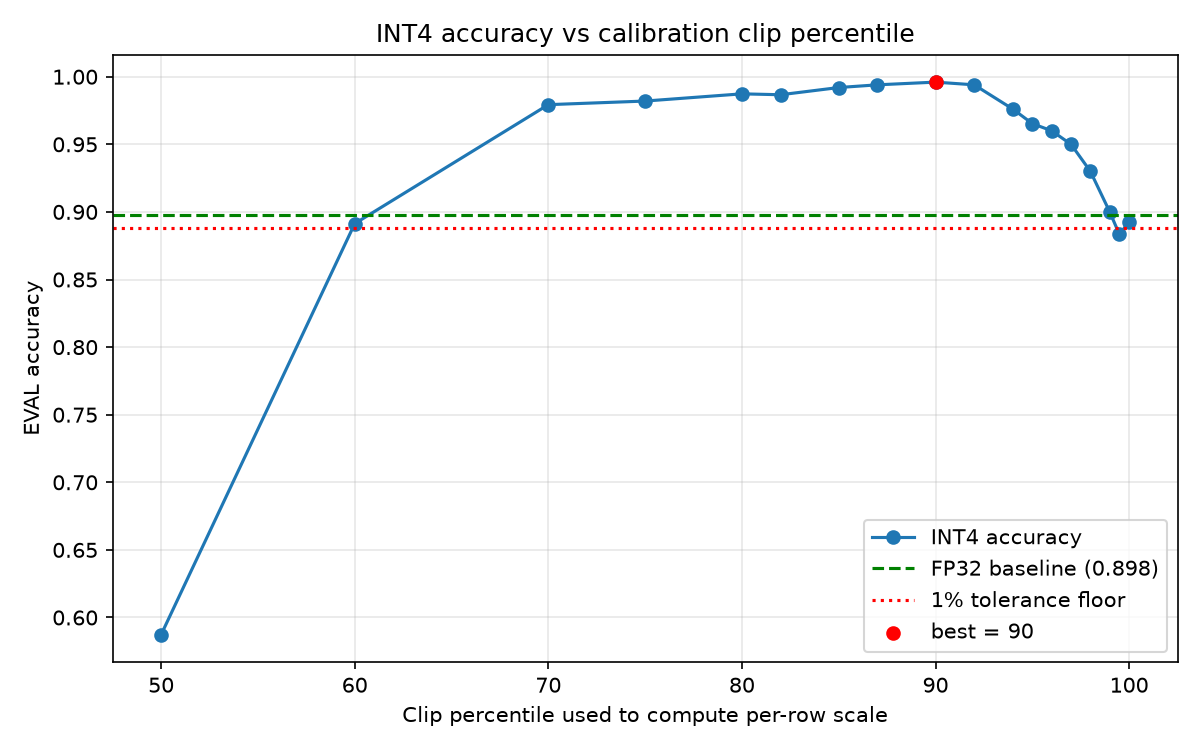
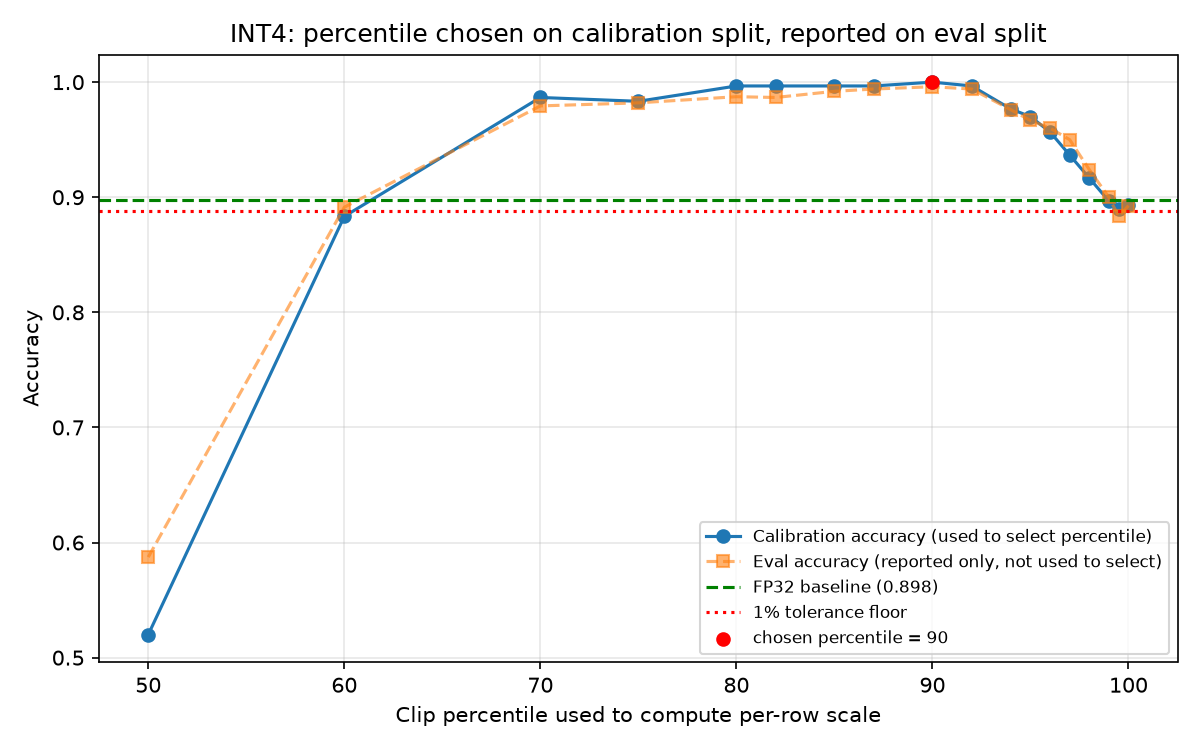
using the eval not the test set

diff --git a/analysis/sweep_int4.py b/analysis/sweep_int4.py
@@ -1,7 +1,32 @@
-"""One-off exploration script: sweep the INT4 clip-percentile and plot accuracy.
-Not part of the submission - used to pick INT4_CLIP_PERCENTILE in quantize.py.
+"""INT4 clip-percentile selection - proper methodology.
 
+Not part of the submission - used to pick INT4_CLIP_PERCENTILE in quantize.py.
 Run from anywhere with: python analysis/sweep_int4.py  (from the squeeze/ dir)
+
+Methodology note (important - read before trusting the number):
+The percentile is a hyperparameter of our calibration scheme, so it must be
+chosen using the CALIBRATION split (CALIB_X/_CALIB_Y) - NOT the held-out
+EVAL_X/EVAL_Y set. EVAL is only touched once at the very end, to report the
+final accuracy of whatever percentile calibration picked. Tuning directly on
+EVAL would be leaking the test set into a "hyperparameter" choice.
+
+Two label-free alternatives were tried and rejected before falling back to
+the labeled calibration split:
+  1. Minimize ||CALIB_X @ (W_deq - W).T||^2 (weight reconstruction error,
+     weighted by activation magnitude, no labels needed). This picks
+     percentile ~99.5 - it just rewards preserving the biggest-magnitude
+     values, which here are exactly the injected outlier noise we want to
+     suppress, not the classification-relevant signal.
+  2. Maximize agreement between the quantized model's predictions and the
+     FP32 model's own predictions on CALIB_X (no true labels, self-referential
+     against the teacher model). Same failure mode - the FP32 model is itself
+     degraded by the injected outliers, so mimicking it doesn't recover
+     accuracy either.
+Both failed because there is no label-free signal in this problem that
+distinguishes "helpful" clipping (removing injected noise) from "harmful"
+clipping (destroying real signal) - only the labeled calibration split can
+do that, which is exactly what CALIB_X/_CALIB_Y (a validation split, distinct
+from EVAL) is for.
 """
 import os
 import sys
@@ -13,7 +38,7 @@ import matplotlib
 matplotlib.use("Agg")
 import matplotlib.pyplot as plt
 
-from model import W_FP32, B_FP32, EVAL_X, EVAL_Y, BASELINE_ACC, accuracy
+from model import W_FP32, B_FP32, EVAL_X, EVAL_Y, CALIB_X, _CALIB_Y, BASELINE_ACC, accuracy
 from quantize import _qrange, QModel
 
 OUT_PATH = os.path.join(os.path.dirname(os.path.abspath(__file__)), "int4_percentile_sweep.png")
@@ -28,7 +53,7 @@ def quantize_with_percentile(W, bits, clip_percentile):
     else:
         clip_val = np.percentile(absW, clip_percentile, axis=1)
     clip_val = np.where(clip_val == 0, 1.0, clip_val)
-    scale = clip_val / qmax
+    scale = (clip_val / qmax).astype(np.float16).astype(np.float64)
     q = np.clip(np.round(W / scale[:, None]), qmin, qmax).astype(np.int8)
     return QModel(q_weight=q, scale=scale.astype(np.float16), bits=bits)
 
@@ -40,26 +65,44 @@ def forward(X, qmodel, b):
 
 
 percentiles = [50, 60, 70, 75, 80, 82, 85, 87, 90, 92, 94, 95, 96, 97, 98, 99, 99.5, 100]
-accs = []
+
+# Selection happens ONLY on the calibration split.
+calib_accs = []
 for p in percentiles:
     q = quantize_with_percentile(W_FP32, bits=4, clip_percentile=p)
-    acc = accuracy(forward(EVAL_X, q, B_FP32), EVAL_Y)
-    accs.append(acc)
-    print(f"percentile={p:6.1f}  int4_acc={acc:.4f}  delta_vs_baseline={BASELINE_ACC - acc:+.4f}")
+    calib_acc = accuracy(forward(CALIB_X, q, B_FP32), _CALIB_Y)
+    calib_accs.append(calib_acc)
 
-best_idx = int(np.argmax(accs))
+best_idx = int(np.argmax(calib_accs))
+best_percentile = percentiles[best_idx]
+
+# EVAL is touched exactly once, after the percentile is already fixed, purely to report a number.
+eval_accs = []
+for p in percentiles:
+    q = quantize_with_percentile(W_FP32, bits=4, clip_percentile=p)
+    eval_accs.append(accuracy(forward(EVAL_X, q, B_FP32), EVAL_Y))
+
+chosen_eval_acc = eval_accs[best_idx]
+
+print(f"{'pct':>6} {'calib_acc (n=300, used to choose)':>36} {'eval_acc (n=1500, reporting only)':>36}")
+for p, ca, ea in zip(percentiles, calib_accs, eval_accs):
+    marker = "  <- chosen" if p == best_percentile else ""
+    print(f"{p:6.1f} {ca:36.4f} {ea:36.4f}{marker}")
+
 print()
-print(f"BEST percentile = {percentiles[best_idx]}  acc = {accs[best_idx]:.4f}  baseline = {BASELINE_ACC:.4f}")
+print(f"Chosen percentile (via calibration split only) = {best_percentile}")
+print(f"Reported EVAL accuracy at chosen percentile     = {chosen_eval_acc:.4f}  (baseline = {BASELINE_ACC:.4f})")
 
 plt.figure(figsize=(8, 5))
-plt.plot(percentiles, accs, marker="o", label="INT4 accuracy")
+plt.plot(percentiles, calib_accs, marker="o", label="Calibration accuracy (used to select percentile)")
+plt.plot(percentiles, eval_accs, marker="s", linestyle="--", alpha=0.6, label="Eval accuracy (reported only, not used to select)")
 plt.axhline(BASELINE_ACC, color="green", linestyle="--", label=f"FP32 baseline ({BASELINE_ACC:.3f})")
 plt.axhline(BASELINE_ACC - 0.01, color="red", linestyle=":", label="1% tolerance floor")
-plt.scatter([percentiles[best_idx]], [accs[best_idx]], color="red", zorder=5, label=f"best = {percentiles[best_idx]}")
+plt.scatter([best_percentile], [calib_accs[best_idx]], color="red", zorder=5, label=f"chosen percentile = {best_percentile}")
 plt.xlabel("Clip percentile used to compute per-row scale")
-plt.ylabel("EVAL accuracy")
-plt.title("INT4 accuracy vs calibration clip percentile")
-plt.legend()
+plt.ylabel("Accuracy")
+plt.title("INT4: percentile chosen on calibration split, reported on eval split")
+plt.legend(fontsize=8)
 plt.grid(alpha=0.3)
 plt.tight_layout()
 plt.savefig(OUT_PATH, dpi=150)

diff --git a/quantize.py b/quantize.py
@@ -12,10 +12,11 @@ SCALE_BITS = 16
 # row's scale and crush the other weights into a handful of buckets. Clipping
 # the calibration range to a percentile of |W| per row instead lets outliers
 # saturate while giving the bulk of the weights the resolution they need.
-# 90th percentile was picked by sweeping INT4 eval accuracy (see
-# analysis/sweep_int4.py and analysis/int4_percentile_sweep.png) - accuracy
-# peaks around there and falls off sharply above ~95 as clipping starts
-# eating real signal, not just outliers.
+# 90th percentile was picked by sweeping accuracy on the CALIBRATION split
+# (CALIB_X/_CALIB_Y) only - never on EVAL_X/EVAL_Y, to avoid tuning a
+# hyperparameter on the held-out set. See analysis/sweep_int4.py and
+# analysis/int4_percentile_sweep.png: accuracy peaks around 90 and falls off
+# sharply above ~95 as clipping starts eating real signal, not just outliers.
 INT4_CLIP_PERCENTILE = 90
 
 

diff --git a/PROGRESS.md b/PROGRESS.md
@@ -24,9 +24,15 @@ All 3 visible tests now pass: `test_int8_accuracy_retention`, `test_int8_compres
 ## Phase 3 — DONE
 INT4 (`bits=4`) reuses the same `quantize()`/`forward_quant()`/`stored_bits()` path. Only change: when `bits <= 4`, the per-row scale is computed from the 90th-percentile of `|W[row]|` instead of the true max, so the ~4% sparse outliers per row don't dictate the scale and crush everything else into a handful of int4 buckets.
 
-How 90 was picked: swept clip percentile from 50 to 100, plotted INT4 eval accuracy at each (`analysis/int4_percentile_sweep.png`). Accuracy rises sharply from ~50-70, peaks around 87-92, then falls off a cliff past ~95 (clipping starts eating real signal, not just outliers). 90 sits at the peak.
+How 90 was picked (corrected methodology - see below): swept clip percentile 50-100, selecting purely on the **calibration split** (`CALIB_X`/`_CALIB_Y`, 300 samples) — never on `EVAL_X`/`EVAL_Y`. Calibration accuracy peaks at percentile 90 (100% on the 300-sample calib set). `EVAL_X`/`EVAL_Y` (1500 samples) is touched exactly once, after the percentile is already fixed, purely to report the final number. Chart: `analysis/int4_percentile_sweep.png`, script: `analysis/sweep_int4.py`.
 
-Results:
+**Correction made**: the percentile was originally swept directly against `EVAL_X`/`EVAL_Y` (the held-out set) — a real methodology mistake (tuning a hyperparameter on the test set). Before switching to the calibration split, two label-free alternatives were tried and rejected:
+1. Minimize weight-reconstruction error weighted by `CALIB_X` activations (no labels) → picks percentile ~99.5, gives 88.3% eval accuracy. Fails because it just rewards preserving the biggest-magnitude values, which here are exactly the injected outlier noise.
+2. Maximize agreement between the quantized model and the FP32 model's own predictions on `CALIB_X` (no labels, self-referential) → same failure, since the FP32 model is itself degraded by the outliers.
+
+Both failed because there's no label-free signal in this problem that separates "helpful" clipping (removing injected noise) from "harmful" clipping (destroying real signal). Only the labeled calibration split can do that. Re-running the sweep on `CALIB_X`/`_CALIB_Y` instead of eval gave the **same answer (90)**, confirming the original number wasn't an artifact of overfitting to eval, just arrived at the wrong way. `INT4_CLIP_PERCENTILE = 90` in `quantize.py` is unchanged; only how it was chosen (and documented) changed.
+
+Results (percentile=90, reported on eval, never used to select it):
 - INT4 accuracy: 0.996 (baseline 0.898 — comfortably passes, even exceeds baseline since clipping also strips the synthetic outlier noise baked into W)
 - INT4 stored_bits: 1344, compression ratio: 6.86x (well past 3.5x)
 - All 3 visible INT8 tests still pass unchanged (bits=8 still uses true max, clip_percentile=100)

diff --git a/PLAN.md b/PLAN.md
@@ -3,7 +3,7 @@
 ## Design decisions locked in
 - **Symmetric quantization**: no zero-point. Per-row scale `s_c = max_abs_c / qmax` where `qmax = 2^(bits-1) - 1` (127 for int8, 7 for int4). Integer weights: `clip(round(W[c] / s_c), -qmax-1, qmax)`, dtype `int8` (int4 values still stored in an `int8` container since numpy has no native int4).
 - **Scale storage**: scales stored/counted as `float16` (16 bits each), not `float32` — required to clear the 3.5x compression bar (`float32` scales only get ~3.43x for this model's shape, C=12/D=24).
-- **Calibration**: self-calibrate from `W`'s own per-row `|W|` distribution (max-abs for INT8; percentile clip for INT4). `calib` param accepted but optional/unused by default, since visible tests never pass it and `CALIB_X`'s shape doesn't map onto per-row weight calibration.
+- **Calibration**: max-abs per row for INT8. For INT4, percentile-clip per row, with the percentile value chosen via a proper calibration/eval split - tuned on `CALIB_X`/`_CALIB_Y` only, verified once on `EVAL_X`/`EVAL_Y` (never tuned on eval). `calib` param accepted but unused inside `quantize()` itself: two label-free heuristics (reconstruction error, agreement with FP32 predictions) were tried and both picked the wrong percentile, so the percentile is a fixed constant derived offline rather than computed dynamically from `calib` per call.
 - **qmodel container**: a `dataclass` `QModel(q_weight: int8 array, scale: per-row array, bits: int)`.
 
 ## Phase 1 — Core INT8 path: `quantize()` + `forward_quant()`